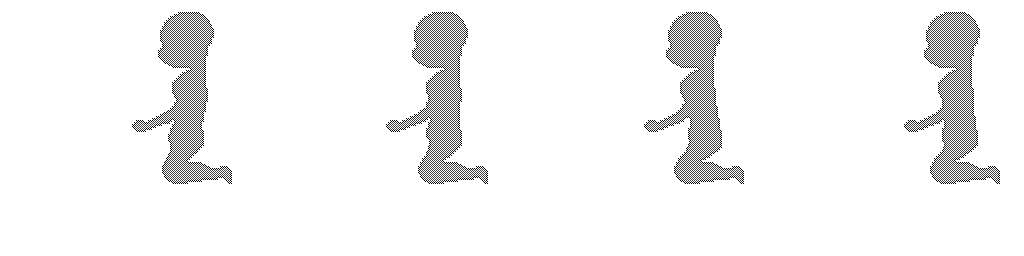
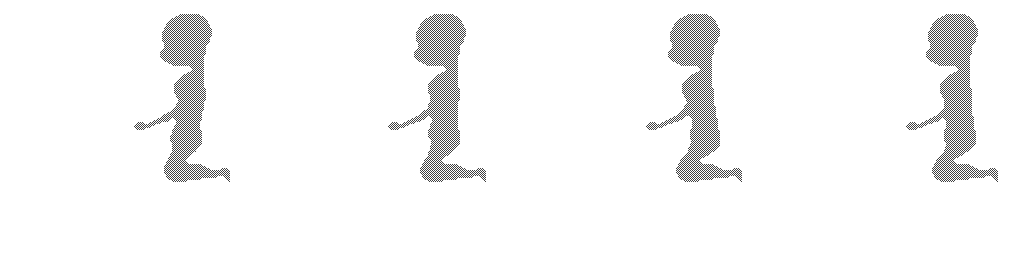
NPC Silhouette outline fix

diff --git a/game/03-JavaScript/05-renderer/19-npc-canvas-helper.js b/game/03-JavaScript/05-renderer/19-npc-canvas-helper.js
@@ -3,7 +3,7 @@
 
 class NpcCanvasHelper {
 	/**
-	 * @param {"front" | "back"} layer
+	 * @param {"front" | "back" | "outline"} layer
 	 * @param {CanvasModelLayers<NpcOptions>} overrideOptions
 	 * @returns {CanvasModelLayers<NpcOptions>}
 	 */
@@ -15,6 +15,10 @@ class NpcCanvasHelper {
 			srcfn(options) {
 				if (layer === "front" && options.category === "shadow") {
 					const path = `${options.src}/${options.category}/${options.type}/${options.state}.png`;
+					return path;
+				}
+				if (layer === "outline" && options.category === "shadow" && options.type === "human") {
+					const path = `${options.src}/${options.category}/${options.type}/${options.state}-outline.png`;
 					return path;
 				}
 				const path = `${options.src}/${options.category}/${options.type}/${layer}-${options.state}.png`;
@@ -49,6 +53,7 @@ class NpcCanvasHelper {
 					}
 					return CombatRenderer.indices.frontLowerOverwear + 1;
 				}
+				if (layer === "outline") return 92;
 				// Back layer
 				if (options.position === "doggy") {
 					return 20;

diff --git a/game/03-JavaScript/05-renderer/20-canvasmodel-combat-npc.js b/game/03-JavaScript/05-renderer/20-canvasmodel-combat-npc.js
@@ -27,6 +27,7 @@ const combatMainNpc = {
 	layers: {
 		npcBodyBack: NpcCanvasHelper.genBodyLayer("back"),
 		npcBodyFront: NpcCanvasHelper.genBodyLayer("front"),
+		npcShadowOutline: NpcCanvasHelper.genBodyLayer("outline"),
 		npcDrool: {
 			srcfn(options) {
 				const path = `${options.src}/${options.category}/${options.type}/drool/${options.drool.amount}.png`;
